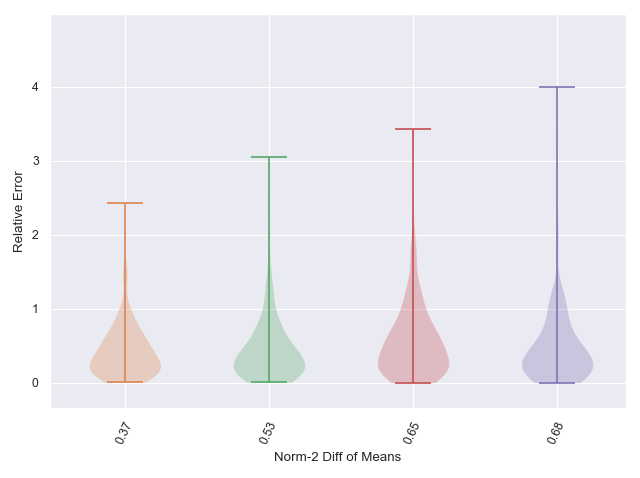
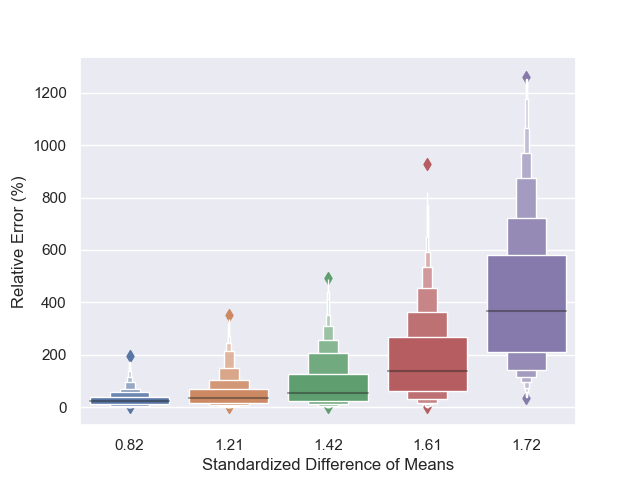
coverage

diff --git a/Experminents/experiment_coverage.py b/Experminents/experiment_coverage.py
@@ -12,31 +12,44 @@ import pymalts
 import seaborn as sns
 import matplotlib.pyplot as plt
 
-n = 500
+n = 1000
 p = 2
 
 std = np.sqrt([1,2,3,4,5])
 coverage_malts_std = []
 coverage_true_std = []
 for scale in std:
-    df_data, df_true, discrete = dg.data_generation_dense_mixed_endo(n, p, 0, 0, 0, rho=0, scale=scale)
-    m = pymalts.malts_mf( 'Y', 'T', data = df_data, discrete=discrete, k_tr=10, k_est=10, n_splits=2,n_repeats=10)
-    cate_df = m.CATE_df
-    cate_df['true.CATE'] = df_true['TE'].to_numpy()
-    cate_df['covered.MALTS.std'] = np.abs(cate_df['avg.CATE'] - cate_df['true.CATE']) < 2*cate_df['std.CATE']
-    cate_df['covered.True.std'] = np.abs(cate_df['avg.CATE'] - cate_df['true.CATE']) < 4*scale
-    coverage_malts_std.append(cate_df['covered.MALTS.std'].mean())
-    coverage_true_std.append(cate_df['covered.True.std'].mean())
-    
-df_coverage = pd.DataFrame()
-df_coverage['True Variance'] = np.square(std)
-df_coverage['Coverage w/ true std'] = coverage_true_std
-df_coverage['Coverage w/ MALTS std'] = coverage_malts_std
+    for rep in range(20):
+        df_data, df_true, discrete = dg.data_generation_dense_mixed_endo(n, p, 0, 0, 0, rho=0, scale=scale, coverage=True)
+        m = pymalts.malts_mf( 'Y', 'T', data = df_data, discrete=discrete, k_tr=10, k_est=20, n_splits=4, n_repeats=3)
+        cate_df = m.CATE_df
+        cate_df['true.CATE'] = df_true['TE'].to_numpy()
+        cate_df['covered.MALTS.var %.1f'%(scale**2)] = np.abs(cate_df['avg.CATE'].iloc[0:9] - cate_df['true.CATE'].iloc[0:9]) < 2*cate_df['std.CATE'].iloc[0:9]
+        cate_df['covered.MALTS.gbr.var %.1f'%(scale**2)] = np.abs(cate_df['avg.gbr.CATE'].iloc[0:9] - cate_df['true.CATE'].iloc[0:9]) < 2*cate_df['std.gbr.CATE'].iloc[0:9]
+        # cate_df['covered.True.std'] = np.abs(cate_df['avg.CATE'] - cate_df['true.CATE']) < 4*scale
+        coverage_df = pd.DataFrame(cate_df[['covered.MALTS.var %.1f'%(scale**2),'covered.MALTS.gbr.var %.1f'%(scale**2)]].iloc[0:9])               
+        print(coverage_df)
+        coverage_malts_std.append(coverage_df)
+        # coverage_true_std.append(cate_df['covered.True.std'].mean())
+df_coverage = pd.concat(coverage_malts_std,axis=1)
+df_coverage_T = df_coverage.transpose()
 
-sns.set()
-plt.plot(df_coverage['True Variance'],df_coverage['Coverage w/ true std'])
-plt.plot(df_coverage['True Variance'],df_coverage['Coverage w/ MALTS std'])
-plt.ylabel('Coverage')
-plt.xlabel('True Variance')
-plt.legend(['Coverage w/ True std','Coverage w/ MALTS std'])
-plt.ylim((0.80,1.005))
+fig, ax = plt.subplots()
+sns.scatterplot(x='X0',y='X1',hue='T',data=df_data,alpha=0.5)
+sns.scatterplot(x='X0',y='X1',marker="*",s=50*cate_df['std.gbr.CATE'].iloc[:9],hue=df_coverage_T.mean(axis=0),data=df_data.iloc[0:9])
+df_coverage_T = df_coverage_T.astype(int)
+group = df_coverage_T.groupby(level=0)
+group.mean().to_csv('coverage_1000.csv')
+
+# df_coverage = pd.DataFrame()
+# df_coverage['True Variance'] = np.square(std)
+# df_coverage['Coverage w/ true std'] = coverage_true_std
+# df_coverage['Coverage w/ MALTS std'] = coverage_malts_std
+
+# sns.set()
+# plt.plot(df_coverage['True Variance'],df_coverage['Coverage w/ true std'])
+# plt.plot(df_coverage['True Variance'],df_coverage['Coverage w/ MALTS std'])
+# plt.ylabel('Coverage')
+# plt.xlabel('True Variance')
+# plt.legend(['Coverage w/ True std','Coverage w/ MALTS std'])
+# plt.ylim((0.80,1.005))

diff --git a/Experminents/pymalts.py b/Experminents/pymalts.py
@@ -249,6 +249,8 @@ class malts_mf:
         self.outcome = outcome
         self.treatment = treatment
         self.discrete = discrete
+        self.continuous = list(set(data.columns).difference(set([outcome]+[treatment]+discrete)))
+        
         skf = RepeatedStratifiedKFold(n_splits=n_splits,n_repeats=n_repeats,random_state=0)
         gen_skf = skf.split(data,data[treatment])
         self.M_opt_list = []
@@ -256,6 +258,7 @@ class malts_mf:
         self.CATE_df = pd.DataFrame()
         N = np.zeros((data.shape[0],data.shape[0]))
         self.MG_matrix = pd.DataFrame(N, columns=data.index, index=data.index)
+        
         i = 0
         for est_idx, train_idx in gen_skf:
             df_train = data.iloc[train_idx]
@@ -266,15 +269,32 @@ class malts_mf:
             mg = m.get_matched_groups(df_est,k_est)
             self.MG_list.append(mg)
             self.CATE_df = pd.concat([self.CATE_df, m.CATE(mg,model=estimator)], join='outer', axis=1)
-        for i in range(n_splits):
+        
+        for i in range(n_splits*n_repeats):
             mg_i = self.MG_list[i]
             for a in mg_i.index:
                 if a[1]!='query':
                     self.MG_matrix.loc[a[0],a[1]] = self.MG_matrix.loc[a[0],a[1]]+1
+        
         cate_df = self.CATE_df['CATE']
         cate_df['avg.CATE'] = cate_df.mean(axis=1)
         cate_df['std.CATE'] = cate_df.std(axis=1)
         cate_df[self.outcome] = self.CATE_df['outcome'].mean(axis=1)
         cate_df[self.treatment] = self.CATE_df['treatment'].mean(axis=1)
         cate_df['avg.Diameter'] = self.CATE_df['diameter'].mean(axis=1)
+        
+        LOWER_ALPHA = 0.05
+        UPPER_ALPHA = 0.95
+        # Each model has to be separate
+        lower_model = ensemble.GradientBoostingRegressor(loss='quantile',alpha=LOWER_ALPHA)
+        # The mid model will use the default loss
+        mid_model = ensemble.GradientBoostingRegressor(loss="ls")
+        upper_model = ensemble.GradientBoostingRegressor(loss="quantile",alpha=UPPER_ALPHA)
+        lower_model.fit(data[self.continuous+self.discrete], cate_df['avg.CATE'])
+        mid_model.fit(data[self.continuous+self.discrete], cate_df['avg.CATE'])
+        upper_model.fit(data[self.continuous+self.discrete], cate_df['avg.CATE'])
+        
+        cate_df['std.gbr.CATE'] = upper_model.predict(data[self.continuous+self.discrete]) - lower_model.predict(data[self.continuous+self.discrete])
+        cate_df['avg.gbr.CATE'] = mid_model.predict(data[self.continuous+self.discrete])
+        
         self.CATE_df = cate_df

diff --git a/Experminents/experiment_overlap.py b/Experminents/experiment_overlap.py
@@ -12,27 +12,43 @@ import pymalts
 import seaborn as sns
 import matplotlib.pyplot as plt
 
-n = 200
+n = 1000
 p = 2
 
+np.random.seed(0)
 diff_mean = []
-overlaps = np.sqrt([100,50,10,0.5,0.05,0.005])
+overlaps = np.sqrt([20,5,2,0.5,0.001])
 err_array = []
 for overlap in overlaps:
     df_data, df_true, discrete = dg.data_generation_dense_mixed_endo(n, p, 0, 0, 0, rho=0, scale=1, overlap=overlap)
+    fig = plt.figure()
+    sns.scatterplot(x='X0',y='X1',hue='T',data=df_data,alpha=0.5)
     df_data_C = df_data.loc[df_data['T']==0][['X0','X1']]
     df_data_T = df_data.loc[df_data['T']==1][['X0','X1']]
-    diff_mean.append(np.linalg.norm(df_data_T.mean(axis=0) - df_data_C.mean(axis=0)))
-    m = pymalts.malts_mf( 'Y', 'T', data = df_data, discrete=discrete, k_tr=5, k_est=10, n_splits=2,n_repeats=1)
+    diff_mean.append(np.linalg.norm(df_data_T.mean(axis=0) - df_data_C.mean(axis=0))/np.linalg.norm(df_data[['X0','X1']].mean(axis=0)))
+    m = pymalts.malts_mf( 'Y', 'T', data = df_data, discrete=discrete, k_tr=5, k_est=10, n_splits=4,n_repeats=1)
     cate_df = m.CATE_df
     cate_df['true.CATE'] = df_true['TE'].to_numpy()
     cate_df['Relative Error (%)'] = np.abs((cate_df['avg.CATE']-cate_df['true.CATE'])/cate_df['true.CATE'].mean())
     err_array.append(cate_df['Relative Error (%)'].to_numpy())
 
+err_array = np.array(err_array).reshape(1,-1)[0]*100
+label = []
 for i in range(len(overlaps)):
-    plt.violinplot(err_array[i],positions=[i])
+    label += [ '%.2f'%(diff_mean[i]) for j in range(n)]
+df = pd.DataFrame()
+df['Relative Error (%)'] = err_array
+df['Standardized Difference of Means'] = label
 
-plt.xticks(ticks=[i for i in range(len(overlaps))],labels=list(map(lambda x:'%.2f'%(x),diff_mean)),rotation=65)
+fig = plt.figure()
+sns.boxenplot(x='Standardized Difference of Means',y='Relative Error (%)',data=df)
+fig.savefig('overlap.png')
+# for i in range(len(overlaps)):
+#     plt.violinplot(err_array[i]*100,positions=[diff_mean[i]])
+
+# plt.xticks(ticks=[i for i in range(len(overlaps))],labels=list(map(lambda x:'%.2f'%(x),diff_mean)),rotation=65)
     
-plt.xlabel('Norm-2 Diff of Means')
-plt.ylabel('Relative Error')
+plt.xlabel('Standardize difference of means')
+plt.ylabel('Relative Error (%)')
+
+print(diff_mean)

diff --git a/Experminents/datagen.py b/Experminents/datagen.py
@@ -8,6 +8,7 @@ Created on Thu Feb 20 17:00:40 2020
 
 import numpy as np
 import pandas as pd
+import scipy
 
 def construct_sec_order(arr):
     # an intermediate data generation function used for generating second order information
@@ -107,18 +108,32 @@ def data_generation_dense_endo_2(num_samples, num_cov_dense, num_covs_unimportan
     df_true['TE'] = te
     return df, df_true
 
-def data_generation_dense_mixed_endo(num_samples, num_cont_imp, num_disc_imp, num_cont_unimp,num_disc_unimp,rho=0,scale=1,overlap=20):
+def data_generation_dense_mixed_endo(num_samples, num_cont_imp, num_disc_imp, num_cont_unimp,num_disc_unimp,rho=0,scale=1,overlap=1000,coverage=False):
     def u(x):
         T = []
         for row in x:
-            l = ( 1 + np.tanh( ( row[0] + row[1] ) / overlap ) ) / 2
-            t = np.random.binomial(1,l/2)
+            l = scipy.special.expit(row[0]+row[1]-2+np.random.normal(0,overlap))
+            t = int( l > 0.5 )
+            # l = ( 1 + np.tanh( ( row[0] + row[1] ) / 20 ) ) / 2
+            # t = np.random.binomial(1,l/2)
             T.append(t)
         return np.array(T)
     # the data generating function that we will use. include second order information
     xc = np.random.normal(1, 1.5, size=(num_samples, num_cont_imp)) #+ np.random.lognormal(1, 0.25, size=(num_control, num_cov_dense))   # data for conum_treatedrol group
     xd = np.random.binomial(1, 0.5, size=(num_samples, num_disc_imp))   # data for conum_treatedrol group
     x = np.hstack((xc,xd))
+    if coverage:
+        x_analyse = np.array([[1,1],
+                              [2.5,2.5],
+                              [-0.5,-0.5],
+                              [2.5,-0.5],
+                              [-0.5,2.5],
+                              [4.0,4.0],
+                              [-3.0,-3.0],
+                              [4.0,-3.0],
+                              [-3.0,4.0]])
+        num_samples += 9
+        x = np.vstack((x_analyse,x))
     
     errors = np.random.normal(0, scale, size=num_samples)    # some noise
     
